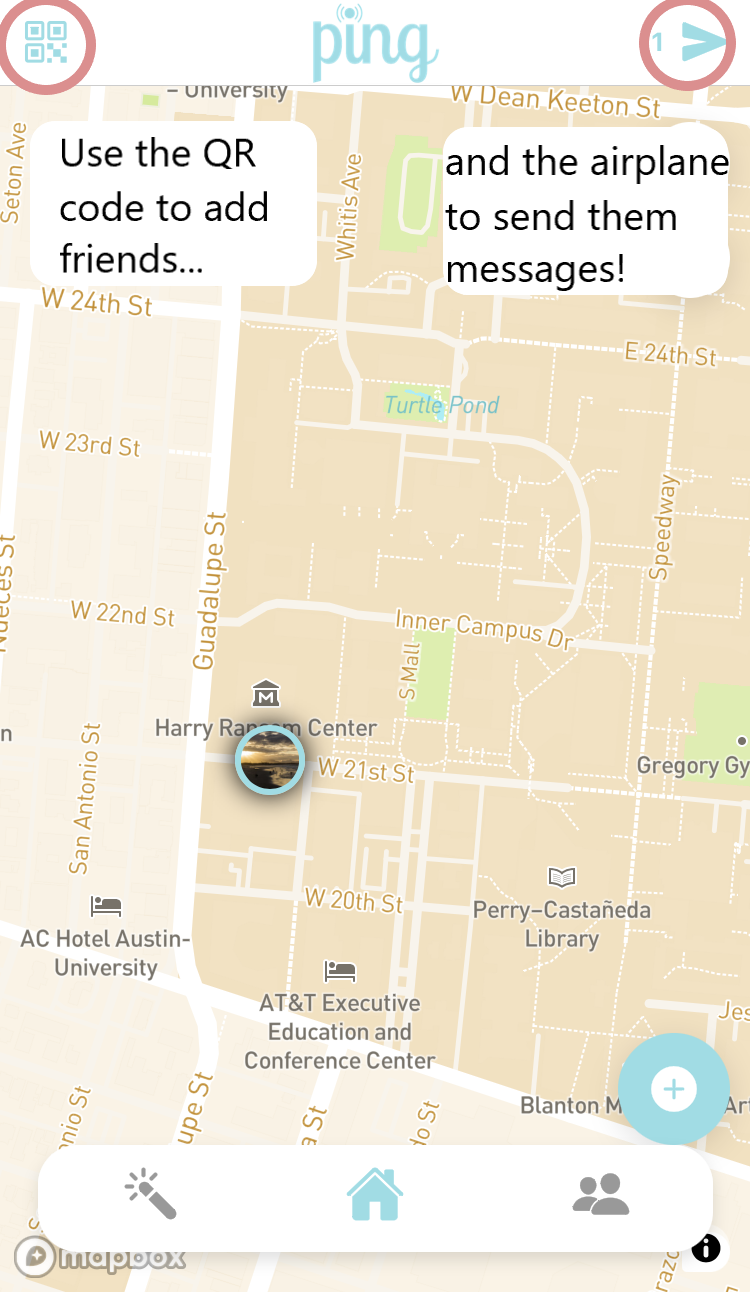
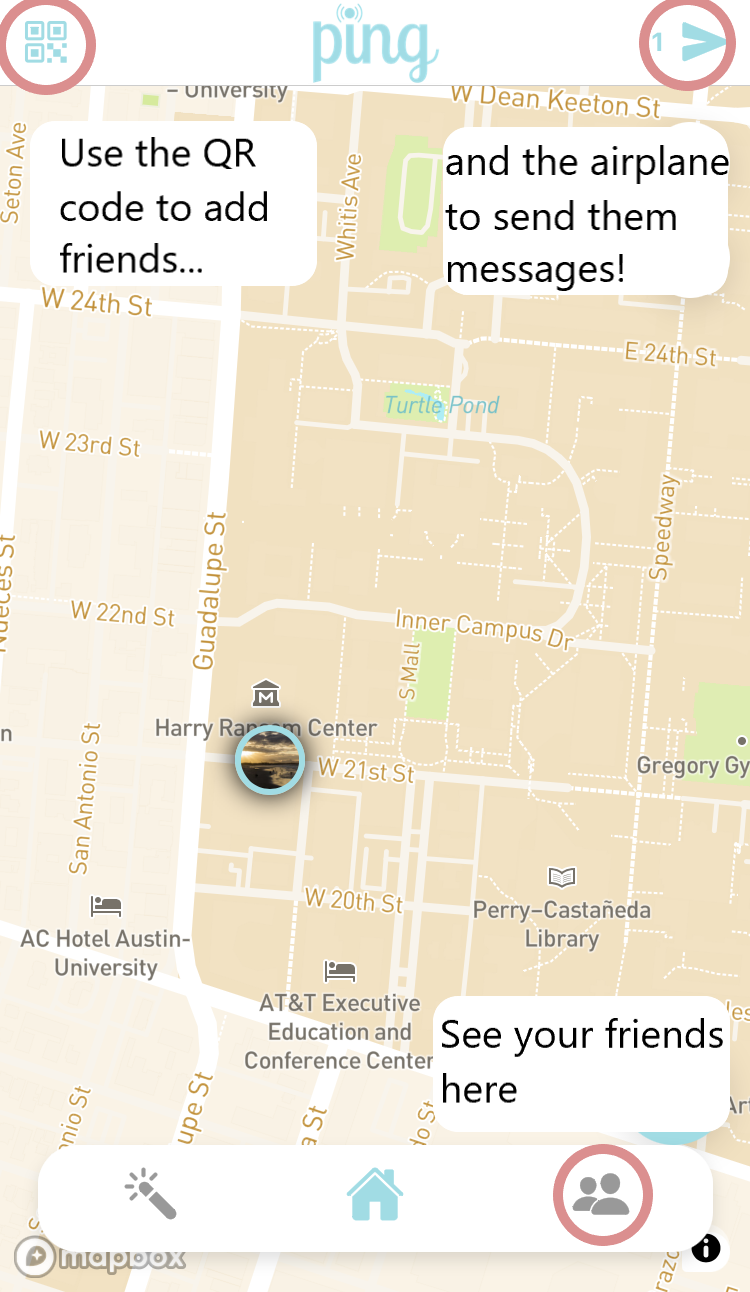
basic tutorial implemented

Changed region(s): [[0.552, 0.774, 0.9813, 0.9907]]

diff --git a/src/app/login/registration/tutorial/tutorial.page.scss b/src/app/login/registration/tutorial/tutorial.page.scss
@@ -1,33 +1,61 @@
-ion-slides{
+ion-slides {
   height: 100%;
+  background-color: black;
+}
+
+ion-label{
+  color: white;
+}
+
+.swiper-slide {
+  display: block;
+}
+
+.swiper-slide h2 {
+  margin-top: 2.8rem;
+}
+
+.swiper-slide img {
+  max-height: 100%;
+  max-width: 100%;
+  margin: 60px 0 40px;
+  pointer-events: none;
+  object-fit: contain;
 }
 
 :host ::ng-deep .tutorial-map{
   height: 100%;
-  display: block;
-  margin-left: auto;
-  margin-right: auto;
-  margin-top: auto;
-  margin-bottom: auto;
-  // background-image: url('./tutorial_images/TutorialMapTest.png')
+  width: 100%;
+  object-fit: contain;
+  background-repeat: no-repeat;
+  background-image: url('src/assets/tutorial_images/TutorialMap.png');
 }
 
 :host ::ng-deep .tutorial-event{
   height: 100%;
-  display: block;
-  margin-left: auto;
-  margin-right: auto;
-  margin-top: auto;
-  margin-bottom: auto;
-  // background-image: url('./tutorial_images/TutorialMapTest.png')
+  width: 100%;
+  object-fit: contain;
+  background-repeat: no-repeat;
+  background-image: url('src/assets/tutorial_images/TutorialEventButton.png');
 }
+
 
 :host ::ng-deep .tutorial-friends{
   height: 100%;
-  display: block;
-  margin-left: auto;
-  margin-right: auto;
-  margin-top: auto;
-  margin-bottom: auto;
-  // background-image: url('./tutorial_images/TutorialMapTest.png')
+  width: 100%;
+  object-fit: contain;
+  background-repeat: no-repeat;
+  background-image: url('src/assets/tutorial_images/TutorialQRCodeAndMessenger.png');
+}
+
+:host ::ng-deep .tutorial-activity{
+  height: 100%;
+  width: 100%;
+  object-fit: contain;
+  background-repeat: no-repeat;
+  background-image: url('src/assets/tutorial_images/TutorialActivityPage.png');
+}
+
+:host ::ng-deep .start-ping{
+  color: #8FDEE6;
 }

diff --git a/src/app/login/registration/tutorial/tutorial.page.html b/src/app/login/registration/tutorial/tutorial.page.html
@@ -1,28 +1,27 @@
-<!-- <ion-header>
-  <ion-toolbar>
-    <ion-title>tutorial</ion-title>
-  </ion-toolbar>
-</ion-header> -->
+<ion-content fullscreen class="ion-padding" scroll-y="false">
+      <ion-slides>
 
-<ion-content>
-  <ion-slides pager="true">
-    <ion-slide>
-      <div class="tutorial-map">
-      <!-- <img src="./tutorial_images/TutorialMap.png"> -->
-        <img src="TutorialMapTest.png">
-      </div>
-    </ion-slide>
-    <ion-slide>
-      <div class="tutorial-event">
-      <!-- <img src="./tutorial_images/TutorialMap.png"> -->
-        <img src="TutorialEventButtonTest.png">
-      </div>
-    </ion-slide>
-    <ion-slide>
-      <div class="tutorial-friends">
-      <!-- <img src="./tutorial_images/TutorialMap.png"> -->
-        <img src="TutorialMapTest.png">
-      </div>
-    </ion-slide>
-  </ion-slides>
-</ion-content>
+        <ion-slide>
+          <!-- <div class="tutorial-map">
+          </div> -->
+          <img src="TutorialMap.png"/>
+          <!-- <img src="./slide-1.png"/> -->
+        </ion-slide>
+
+        <ion-slide>
+          <img src="TutorialEventButton.png"/>
+        </ion-slide>
+
+        <ion-slide>
+          <img src="TutorialQRCodeAndMessenger.png"/>
+        </ion-slide>
+
+        <ion-slide>
+          <img src="TutorialActivityPage.png"/>
+          <ion-button class="start-ping" (click)="endTutorial()">
+              <ion-label>Finish Tutorial</ion-label>
+          </ion-button>
+        </ion-slide>
+
+      </ion-slides>
+    </ion-content>

diff --git a/src/app/login/registration/tutorial/tutorial.page.ts b/src/app/login/registration/tutorial/tutorial.page.ts
@@ -1,4 +1,6 @@
 import { Component, OnInit } from '@angular/core';
+import {Router} from '@angular/router';
+
 
 @Component({
   selector: 'app-tutorial',
@@ -7,13 +9,19 @@ import { Component, OnInit } from '@angular/core';
 })
 export class TutorialPage implements OnInit {
 
-  constructor() { }
+  constructor(public router: Router) { }
 
   ngOnInit() {
     console.log("we in the tutorial!!");
     console.log(this);
     //TODO: look at how to pass to navigate['']
     //Promise.all(this.r.navigate(['']));
+  }
+
+  endTutorial(){
+    console.log(this.router);
+    this.router.navigate(['']);
+    console.log("ended");
   }
 
 }
